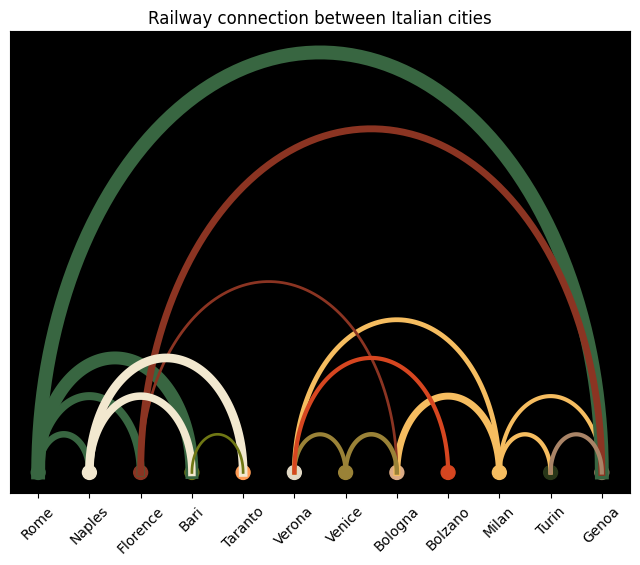
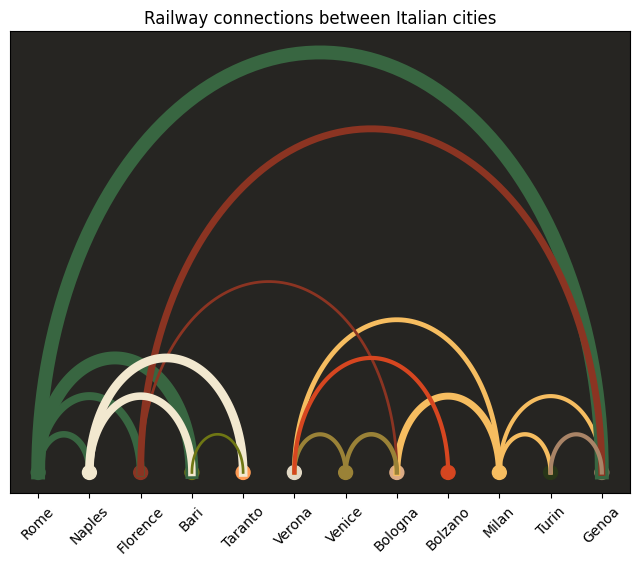
updated readme with the documentation of the new features: linewidth, arc below and custom color list setting.

diff --git a/main.py b/main.py
@@ -56,7 +56,7 @@ nodes = [
     "Turin",
     "Genoa",
 ]
-title = "Railway connection between Italian cities"
+title = "Railway connections between Italian cities"
 arc_diagram = ArcDiagram(nodes, title)
 custom_colors = [
     "#386641",
@@ -73,23 +73,25 @@ custom_colors = [
     "#a98467",
 ]
 arc_diagram.set_custom_colors(custom_colors)
-arc_diagram.set_background_color("black")
-arc_diagram.connect("Milan", "Genoa", thickness=119)
-arc_diagram.connect("Milan", "Verona", thickness=140)
-arc_diagram.connect("Milan", "Turin", thickness=126)
-arc_diagram.connect("Milan", "Bologna", thickness=201)
-arc_diagram.connect("Rome", "Genoa", thickness=403)
-arc_diagram.connect("Rome", "Florence", thickness=232)
-arc_diagram.connect("Rome", "Naples", thickness=189)
-arc_diagram.connect("Rome", "Bari", thickness=375)
-arc_diagram.connect("Florence", "Genoa", thickness=200)
-arc_diagram.connect("Florence", "Bologna", thickness=80)
-arc_diagram.connect("Naples", "Taranto", thickness=252)
-arc_diagram.connect("Naples", "Bari", thickness=219)
-arc_diagram.connect("Venice", "Verona", thickness=120)
-arc_diagram.connect("Venice", "Bologna", thickness=131)
-arc_diagram.connect("Bolzano", "Verona", thickness=122)
-arc_diagram.connect("Bari", "Taranto", thickness=78)
-arc_diagram.connect("Genoa", "Turin", thickness=122)
+arc_diagram.set_background_color("#262522")
+arc_diagram.connect(
+    "Milan", "Genoa", linewidth=119
+)  # passing the distance in km between the two cities as arc linewidth
+arc_diagram.connect("Milan", "Verona", linewidth=140)
+arc_diagram.connect("Milan", "Turin", linewidth=126)
+arc_diagram.connect("Milan", "Bologna", linewidth=201)
+arc_diagram.connect("Rome", "Genoa", linewidth=403)
+arc_diagram.connect("Rome", "Florence", linewidth=232)
+arc_diagram.connect("Rome", "Naples", linewidth=189)
+arc_diagram.connect("Rome", "Bari", linewidth=375)
+arc_diagram.connect("Florence", "Genoa", linewidth=200)
+arc_diagram.connect("Florence", "Bologna", linewidth=80)
+arc_diagram.connect("Naples", "Taranto", linewidth=252)
+arc_diagram.connect("Naples", "Bari", linewidth=219)
+arc_diagram.connect("Venice", "Verona", linewidth=120)
+arc_diagram.connect("Venice", "Bologna", linewidth=131)
+arc_diagram.connect("Bolzano", "Verona", linewidth=122)
+arc_diagram.connect("Bari", "Taranto", linewidth=78)
+arc_diagram.connect("Genoa", "Turin", linewidth=122)
 arc_diagram.save_plot_as("italian-railway.png")
 # arc_diagram.show_plot()

diff --git a/arcplot/arcplot.py b/arcplot/arcplot.py
@@ -13,7 +13,7 @@ class ArcDiagram:
         self.colors = plt.cm.copper(np.linspace(0, 1, len(nodes)))
         self.background_color = "white"
 
-    def connect(self, start_node, end_node, thickness=0.1, arc_position="above"):
+    def connect(self, start_node, end_node, linewidth=0.1, arc_position="above"):
         start = self.nodes.index(start_node)
         end = self.nodes.index(end_node)
 
@@ -27,7 +27,7 @@ class ArcDiagram:
 
         x = arc_center + radius * np.cos(np.radians(theta))
         y = radius * np.sin(np.radians(theta))
-        self.arc_coordinates.append((x, y, start, thickness))
+        self.arc_coordinates.append((x, y, start, linewidth))
 
     def save_plot_as(self, file_name, resolution="figure"):
         fig, ax = self.__plot()
@@ -59,13 +59,13 @@ class ArcDiagram:
 
         max_value = max(self.arc_coordinates, key=itemgetter(3))[3]
         # plot connections as arcs
-        for x, y, index, thickness in self.arc_coordinates:
+        for x, y, index, raw_linewidth in self.arc_coordinates:
             ax.plot(
                 x,
                 y,
                 color=self.colors[index],
                 zorder=1,
-                linewidth=self._map_to_linewidth(thickness, max_value),
+                linewidth=self._map_to_linewidth(raw_linewidth, max_value),
             )
 
         plt.xticks(rotation=45)

diff --git a/README.md b/README.md
@@ -7,21 +7,66 @@
 
 ## usage
 
+![alt text](https://raw.githubusercontent.com/szkics/arcplot/main/img/italian-railway.png)
+
 ```py
 from arcplot import ArcDiagram
 
-nodes = ["The Good", "The Bad", "The Ugly"]
-title = "Characters pointing guns at each other in Sergio Leone's film"
+nodes = [
+    "Rome",
+    "Naples",
+    "Florence",
+    "Bari",
+    "Taranto",
+    "Verona",
+    "Venice",
+    "Bologna",
+    "Bolzano",
+    "Milan",
+    "Turin",
+    "Genoa",
+]
+title = "Railway connections between Italian cities"
 arc_diagram = ArcDiagram(nodes, title)
-arc_diagram.set_background_color("#c7a27d")
-arc_diagram.connect("The Good", "The Bad")
-arc_diagram.connect("The Good", "The Ugly")
-arc_diagram.connect("The Ugly", "The Bad")
+custom_colors = [
+    "#386641",
+    "#f2e8cf",
+    "#8b3422",
+    "#6f7714",
+    "#ff9b54",
+    "#e2d9c5",
+    "#9a8237",
+    "#dbab85",
+    "#d64620",
+    "#f6bd60",
+    "#283618",
+    "#a98467",
+]
+arc_diagram.set_custom_colors(custom_colors)
+arc_diagram.set_background_color("#262522")
+arc_diagram.connect(
+    "Milan", "Genoa", linewidth=119
+)  # passing the distance in km between the two cities as arc linewidth
+arc_diagram.connect("Milan", "Verona", linewidth=140)
+arc_diagram.connect("Milan", "Turin", linewidth=126)
+arc_diagram.connect("Milan", "Bologna", linewidth=201)
+arc_diagram.connect("Rome", "Genoa", linewidth=403)
+arc_diagram.connect("Rome", "Florence", linewidth=232)
+arc_diagram.connect("Rome", "Naples", linewidth=189)
+arc_diagram.connect("Rome", "Bari", linewidth=375)
+arc_diagram.connect("Florence", "Genoa", linewidth=200)
+arc_diagram.connect("Florence", "Bologna", linewidth=80)
+arc_diagram.connect("Naples", "Taranto", linewidth=252)
+arc_diagram.connect("Naples", "Bari", linewidth=219)
+arc_diagram.connect("Venice", "Verona", linewidth=120)
+arc_diagram.connect("Venice", "Bologna", linewidth=131)
+arc_diagram.connect("Bolzano", "Verona", linewidth=122)
+arc_diagram.connect("Bari", "Taranto", linewidth=78)
+arc_diagram.connect("Genoa", "Turin", linewidth=122)
 arc_diagram.show_plot()
 ```
 
-![alt text](https://raw.githubusercontent.com/szkics/arcplot/main/img/the-good.png?token=GHSAT0AAAAAACNTK4WQAFBU5WC324BUT3SMZOMMLZQ)
-
+![alt text](https://raw.githubusercontent.com/szkics/arcplot/main/img/the-office.png)
 
 ```py
 nodes = [
@@ -52,10 +97,25 @@ arc_diagram.connect("Kelly", "Ryan")
 arc_diagram.connect("Kelly", "Darrel")
 arc_diagram.connect("Angela", "Dwight")
 arc_diagram.connect("Angela", "Andy")
+arc_diagram.connect("Jim", "Roy", arc_position="below")
+arc_diagram.connect("Jim", "Dwight", arc_position="below")
+arc_diagram.connect("Andy", "Dwight", arc_position="below")
 arc_diagram.save_plot_as("the-office.png", resolution="300") # resolution is optional, defaults to 'figure'
 ```
 
-![alt text](https://raw.githubusercontent.com/szkics/arcplot/main/img/the-office.png?token=GHSAT0AAAAAACNTK4WRC5YHOB45DMKKFHTCZOMML2A)
+![alt text](https://raw.githubusercontent.com/szkics/arcplot/main/img/the-good.png)
+
+
+```py
+nodes = ["The Good", "The Bad", "The Ugly"]
+title = "Characters pointing guns at each other in Sergio Leone's film"
+arc_diagram = ArcDiagram(nodes, title)
+arc_diagram.set_background_color("#c7a27d")
+arc_diagram.connect("The Good", "The Bad")
+arc_diagram.connect("The Good", "The Ugly")
+arc_diagram.connect("The Ugly", "The Bad")
+arc_diagram.show_plot()
+```
 
 ## function list
 
@@ -63,7 +123,11 @@ arc_diagram.save_plot_as("the-office.png", resolution="300") # resolution is opt
 ArcDiagram(nodes, title) # for initializing an ArcDiagram the entities to connect and the title is required.
 .set_background_color(string) # for setting background color of the matplotlib figure.
 .set_color_map(string) # for setting color map, choose from: https://matplotlib.org/stable/users/explain/colors/colormaps.html
-.connect(start, end) # for creating an arc between two entities.
+.set_custom_colors(color_list) # for setting colors of nodes from a custom color list, 
+# the length of the color list must be the same as the length of the node list.
+.connect(start, end, linewidth=100, arc_position="below") # for creating an arc between two entities
+# optional parameter linewidth sets linewidth proportionally to other arc linewidths.
+# arc_position="below" draws arc below the x axis, default is "above". 
 .show_plot() # for checking the results of the data visualization process.
 .save_plot_as(file_name, resolution="100") # for saving file as an image with an optional resolution setting for higher-quality images.
 ```
